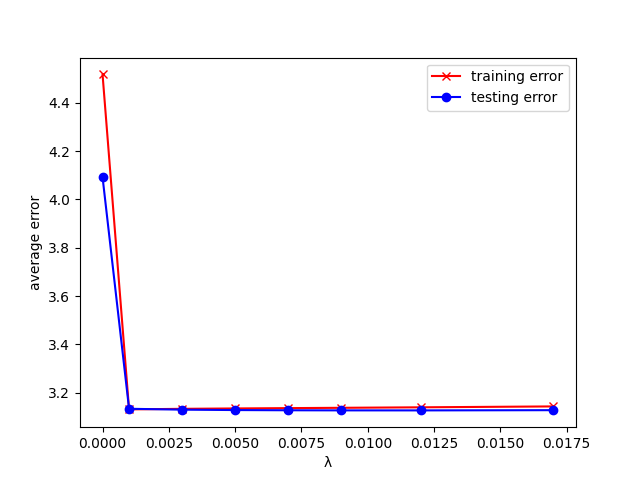
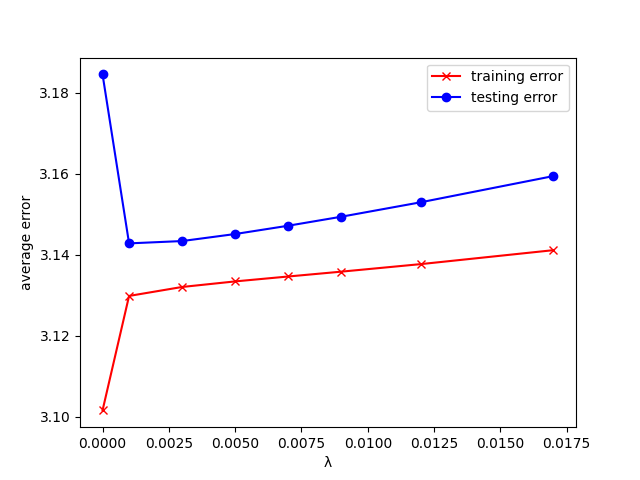
finished 1. starting 2. the pain continues :)

diff --git a/week4/ps4.py b/week4/ps4.py
@@ -49,6 +49,8 @@ for i in range(20):
     for j in range(8):
         θ = Reg_normalEqn.Reg_normalEqn(X_train, y_train, λ[j])
         #print('parameters for iteration', i, ',', j, 'and λ =',λ[j],':',θ)
+
+        # get training/testing error
         train_error = mse(X_train, y_train, θ)
         test_error = mse(X_test, y_test, θ)
 
@@ -78,11 +80,10 @@ plot.close()
 print('2.')
 
 data2 = scipy.io.loadmat('/workspaces/python/week4/hw4_data2.mat')
-
-
-
-
-
+X_train2 = np.vstack([data2['X1'],data2['X2'],data2['X3'],data2['X5']])
+y_train2 = np.array([data2['y1'],data2['y2'],data2['y3'],data2['y5']])
+X_test2 = np.array(data2['X4'])
+y_test2 = np.array(data2['y4'])
 
 
 

diff --git a/week4/Reg_normalEqn.py b/week4/Reg_normalEqn.py
@@ -9,6 +9,5 @@ def Reg_normalEqn(X, y, λ):
     id_mtx[0,0] = 0
 
     λI = λ * id_mtx
-    XTy = np.matmul(X.T, y)
 
-    return np.linalg.pinv(XTX + λI) @ XTy
+    return np.linalg.pinv(XTX + λI) @ X.T @ y
